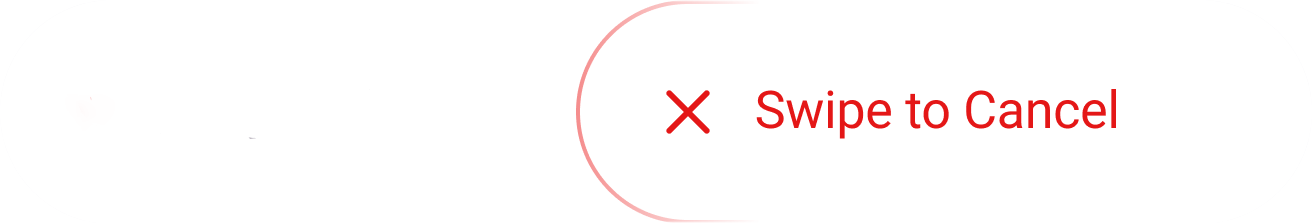
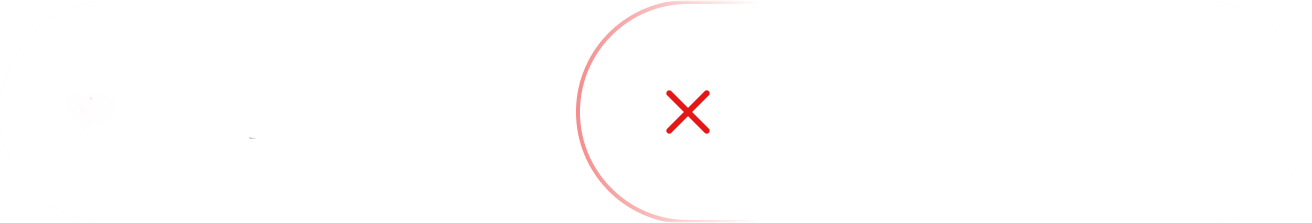
s

Changed region(s): [[0.5625, 0.4036, 0.875, 0.6188]]

diff --git a/screens/Chat/ConversationScreen.js b/screens/Chat/ConversationScreen.js
@@ -134,7 +134,7 @@ const ConversationScreen = (props) => {
             return updatedTime.toDateString().substring(4);
         }
         else if (nowTime.getMonth() != updatedTime.getMonth() || (nowTime.getDate() - updatedTime.getDate() > nowTime.getDay())) {
-            return t(months[updatedTime.getMonth()])+' '+updatedTime.getDate().toString();
+            return t(months[updatedTime.getMonth()]) + ' ' + updatedTime.getDate().toString();
         }
         else if (nowTime.getDate() - 1 > updatedTime.getDate()) {
             return t(days[updatedTime.getDay()]);
@@ -234,11 +234,11 @@ const ConversationScreen = (props) => {
     const clearRecorder = async () => {
         wasteTime.current = 0;
         await recorderPlayer.stopRecorder()
-        .then(res => {
-        })
-          .catch(err => {
-            console.log(err);
-          });
+            .then(res => {
+            })
+            .catch(err => {
+                console.log(err);
+            });
         recorderPlayer.removeRecordBackListener();
     }
 
@@ -248,7 +248,7 @@ const ConversationScreen = (props) => {
             onStartRecord();
         }
         if (v == false && isRecording == true) {
-            onStopRecord(dragPos.current > -100&&wasteTime.current>0)
+            onStopRecord(dragPos.current > -100 && wasteTime.current > 0)
         }
     }
 
@@ -284,9 +284,9 @@ const ConversationScreen = (props) => {
             socketInstance.emit("chatState", { fromUserId: user.id, toUserId: info.user.id, state: 'start' });
             await recorderPlayer.startRecorder(path, audioSet).then(res => {
             })
-              .catch(err => {
-                console.log(err);
-              });
+                .catch(err => {
+                    console.log(err);
+                });
             recorderPlayer.addRecordBackListener((e) => {
                 wasteTime.current = e.currentPosition;
                 if (e.currentPosition >= fill * 1000) {
@@ -726,15 +726,24 @@ const ConversationScreen = (props) => {
                         flexDirection: 'row',
                         alignItems: 'center'
                     }}>
-                        <Image
+                        <ImageBackground
                             style={{
                                 position: 'absolute',
                                 height: 56,
                                 width: 328,
+                                justifyContent:'center'
                             }}
                             resizeMode="stretch"
                             source={require('../../assets/chat/chatRecord.png')}
-                        />
+                        >
+                            <DescriptionText
+                                text={t("Swipe to Cancel")}
+                                fontSize={13}
+                                lineHeight={13}
+                                color='#E41717'
+                                marginLeft={188}
+                            />
+                        </ImageBackground>
                         <View
                             style={{
                                 width: 8,

diff --git a/screens/Setting/ShareFriendScreen.js b/screens/Setting/ShareFriendScreen.js
@@ -23,14 +23,21 @@ import { useTranslation } from 'react-i18next';
 import '../../language/i18n';
 import VoiceService from '../../services/VoiceService';
 import RNVibrationFeedback from 'react-native-vibration-feedback';
+import { useDispatch, useSelector } from 'react-redux';
 
 const ShareFriendScreen = (props) => {
 
     const { t, i18n } = useTranslation();
 
     const [statetype, setStatetype] = useState('current');
-    const [referLink, setReferLink] = useState('https://testflight.apple.com/join/ztQ4TQlu')
+    const [referLink, setReferLink] = useState('https://bit.ly/3S9VVsu');
 
+    let { user } = useSelector((state) => {
+        return (
+          state.user
+        )
+      });
+    
     const handleSubmit = () => {
         if (statetype == 'current') {
             setStatetype('match');
@@ -43,7 +50,7 @@ const ShareFriendScreen = (props) => {
     const shareMessage = async () => {
         const options = {
             title: 'Sharing!',
-            message: "Heyyy! I’m sure you’ll love these stories on Vocco app. Download the app now! It’s free! link/download.app",
+            message: msg,
             url: referLink,
         };
         const respose = await Share.share(options);
@@ -62,6 +69,9 @@ const ShareFriendScreen = (props) => {
         Clipboard.setString(referLink);
         RNVibrationFeedback.vibrateWith(1519);
     }
+
+    let msg = t("You'll love these stories 🤣👀🙈. Download Vocco app for free on https://bit.ly/3S9VVsu")
+
     useEffect(() => {
     }, [])
     return (
@@ -179,10 +189,10 @@ const ShareFriendScreen = (props) => {
                         <TouchableOpacity onPress={async () => {
                             await singleShare({
                                 title: "Share via message",
-                                message: "",
+                                message: msg,
                                 url: referLink,
                                 social: socialShare.Social.WHATSAPP,
-                                whatsAppNumber: "9199999999",
+                                whatsAppNumber: user.phoneNumber?user.phoneNumber:"91999999",
                                 filename: "Vocco",
                             });
                         }}

diff --git a/screens/mymy/ShareStoryScreen.js b/screens/mymy/ShareStoryScreen.js
@@ -27,11 +27,20 @@ import { styles } from '../style/Login';
 import { TitleText } from '../component/TitleText';
 import { ScrollView } from 'react-native-gesture-handler';
 import VoiceService from '../../services/VoiceService';
+import { useDispatch, useSelector } from 'react-redux';
 import RNVibrationFeedback from 'react-native-vibration-feedback';
 
 const ShareStoryScreen = (props) => {
 
   let info = props.navigation.state.params?.info;
+
+  let { user } = useSelector((state) => {
+    return (
+      state.user
+    )
+  });
+
+  console.log(user);
 
   const { t, i18n } = useTranslation();
 
@@ -187,7 +196,7 @@ const ShareStoryScreen = (props) => {
                 await singleShare({
                   title: "Share via message",
                   message: "some awesome dangerous message",
-                  whatsAppNumber: "9199999999",
+                  whatsAppNumber: user.phoneNumber?user.phoneNumber:"91999999",
                   url: info.file.url,
                   social: socialShare.Social.WHATSAPP,
                   filename: info.title,

diff --git a/screens/component/ShareVoice.js b/screens/component/ShareVoice.js
@@ -11,6 +11,7 @@ import { DescriptionText } from "./DescriptionText";
 import { useTranslation } from 'react-i18next';
 import '../../language/i18n';
 import VoiceService from "../../services/VoiceService";
+import { useDispatch, useSelector } from 'react-redux';
 
 export const ShareVoice = ({
   onCloseModal = () => { },
@@ -20,6 +21,12 @@ export const ShareVoice = ({
   const { t, i18n } = useTranslation();
 
   const [showModal, setShowModal] = useState(true);
+
+  let { user } = useSelector((state) => {
+    return (
+      state.user
+    )
+  });
 
   const closeModal = () => {
     setShowModal(false);
@@ -169,6 +176,7 @@ export const ShareVoice = ({
                     message: "some awesome dangerous message",
                     url: info.file.url,
                     social: socialShare.Social.WHATSAPP,
+                    whatsAppNumber: user.phoneNumber?user.phoneNumber:"91999999",
                     filename: info.title,
                   });
                   VoiceService.shareStory(info.id, 'record');

diff --git a/screens/component/ShareQRcode.js b/screens/component/ShareQRcode.js
@@ -29,7 +29,7 @@ export const ShareQRcode = ({
   let myQRCode = useRef();
 
   const shareQRCode = () => {
-    let msg = t("You'll love these stories 🤣👀🙈. Download Vocco app for free on www.vocco.ai")
+    let msg = t("You'll love these stories 🤣👀🙈. Download Vocco app for free on https://bit.ly/3S9VVsu")
     myQRCode.toDataURL((dataURL) => {
       let shareImageBase64 = {
         title: 'Vocco',
@@ -121,7 +121,7 @@ export const ShareQRcode = ({
               </LinearTextGradient>
               <QRCode
                 getRef={(ref) => (myQRCode = ref)}
-                value='www.vocco.ai'
+                value='https://bit.ly/3S9VVsu'
                 size={208}
                 logo={require('../../assets/common/qr-logo.png')}
                 logoSize={51}

diff --git a/screens/component/TagFriends.js b/screens/component/TagFriends.js
@@ -121,7 +121,7 @@ export const TagFriends = ({
     num = (num - minute) / 60;
     let hour = num % 24;
     let day = (num - hour) / 24
-    return (day > 0 ? (day.toString() + ' ' + t("day") + (day > 1 ? 's' : '')) : (hour > 0 ? (hour.toString() + ' ' + t("hour") + (hour > 1 ? 's' : '')) : (minute > 0 ? (minute.toString() + ' ' + t("minute") + (minute > 1 ? 's' : '')) : ''))) + " " + t("ago");
+    return t("") + (day > 0 ? (day.toString() + ' ' + t("day") + (day > 1 ? 's' : '')) : (hour > 0 ? (hour.toString() + ' ' + t("hour") + (hour > 1 ? 's' : '')) : (minute > 0 ? (minute.toString() + ' ' + t("minute") + (minute > 1 ? 's' : '')) : ''))) + " " + t("ago");
   }
 
   const handleSubmit = () => {

diff --git a/config/config.js b/config/config.js
@@ -12,7 +12,7 @@ export const REFRESHTOKEN_KEY = "@VoccoRT:2021";
 export const TUTORIAL_CHECK = "tutorial";
 export const POST_CHECK = "firstpost";
 export const SHARE_CHECK = "firstshare";
-export const DEVICEH_TOKEN = "devicetoken";
+export const DEVICE_TOKEN = "devicetoken";
 export const APP_NAV = "appnav";
 export const DEVICE_OS = "deviceos";
 export const MAIN_LANGUAGE = "main_language";
